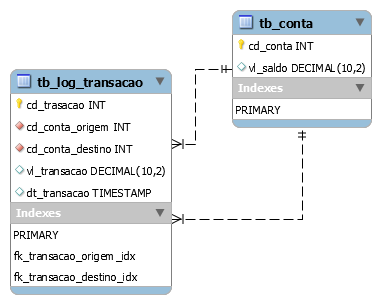
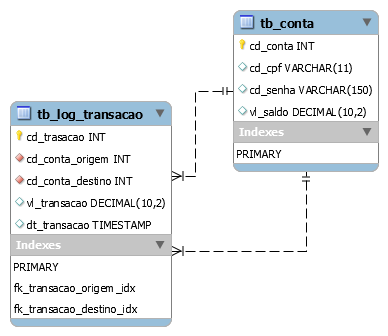
Alteração realizada na regra de negócio do sistema

diff --git a/classes/transfer.php b/classes/transfer.php
@@ -1,0 +1,29 @@
+<?php
+
+class Transfer{
+    private $hash;
+    private $origem;
+    private $destino;
+
+    public function __construct(){
+
+    }
+
+    public function getOrigem(){
+        return $this->origem;
+    }
+
+    public function setOrigem($origem){
+        $this->origem = $origem;
+    }
+
+    public function getDestino(){
+       return $this->destino;
+    }
+
+    public function setDestino($destino){
+        $this->destino = $destino;
+    }
+
+    
+}

diff --git a/classes/account.php b/classes/account.php
@@ -2,6 +2,8 @@
 
 class Account{
     private $id;
+    private $cpf;
+    private $senha;
     private $saldo;
 
     public function __construct($id){

diff --git a/api/apiTransfer.php b/api/apiTransfer.php
@@ -1,0 +1,2 @@
+<?php
+    echo substr(md5("120720021"), -4);
